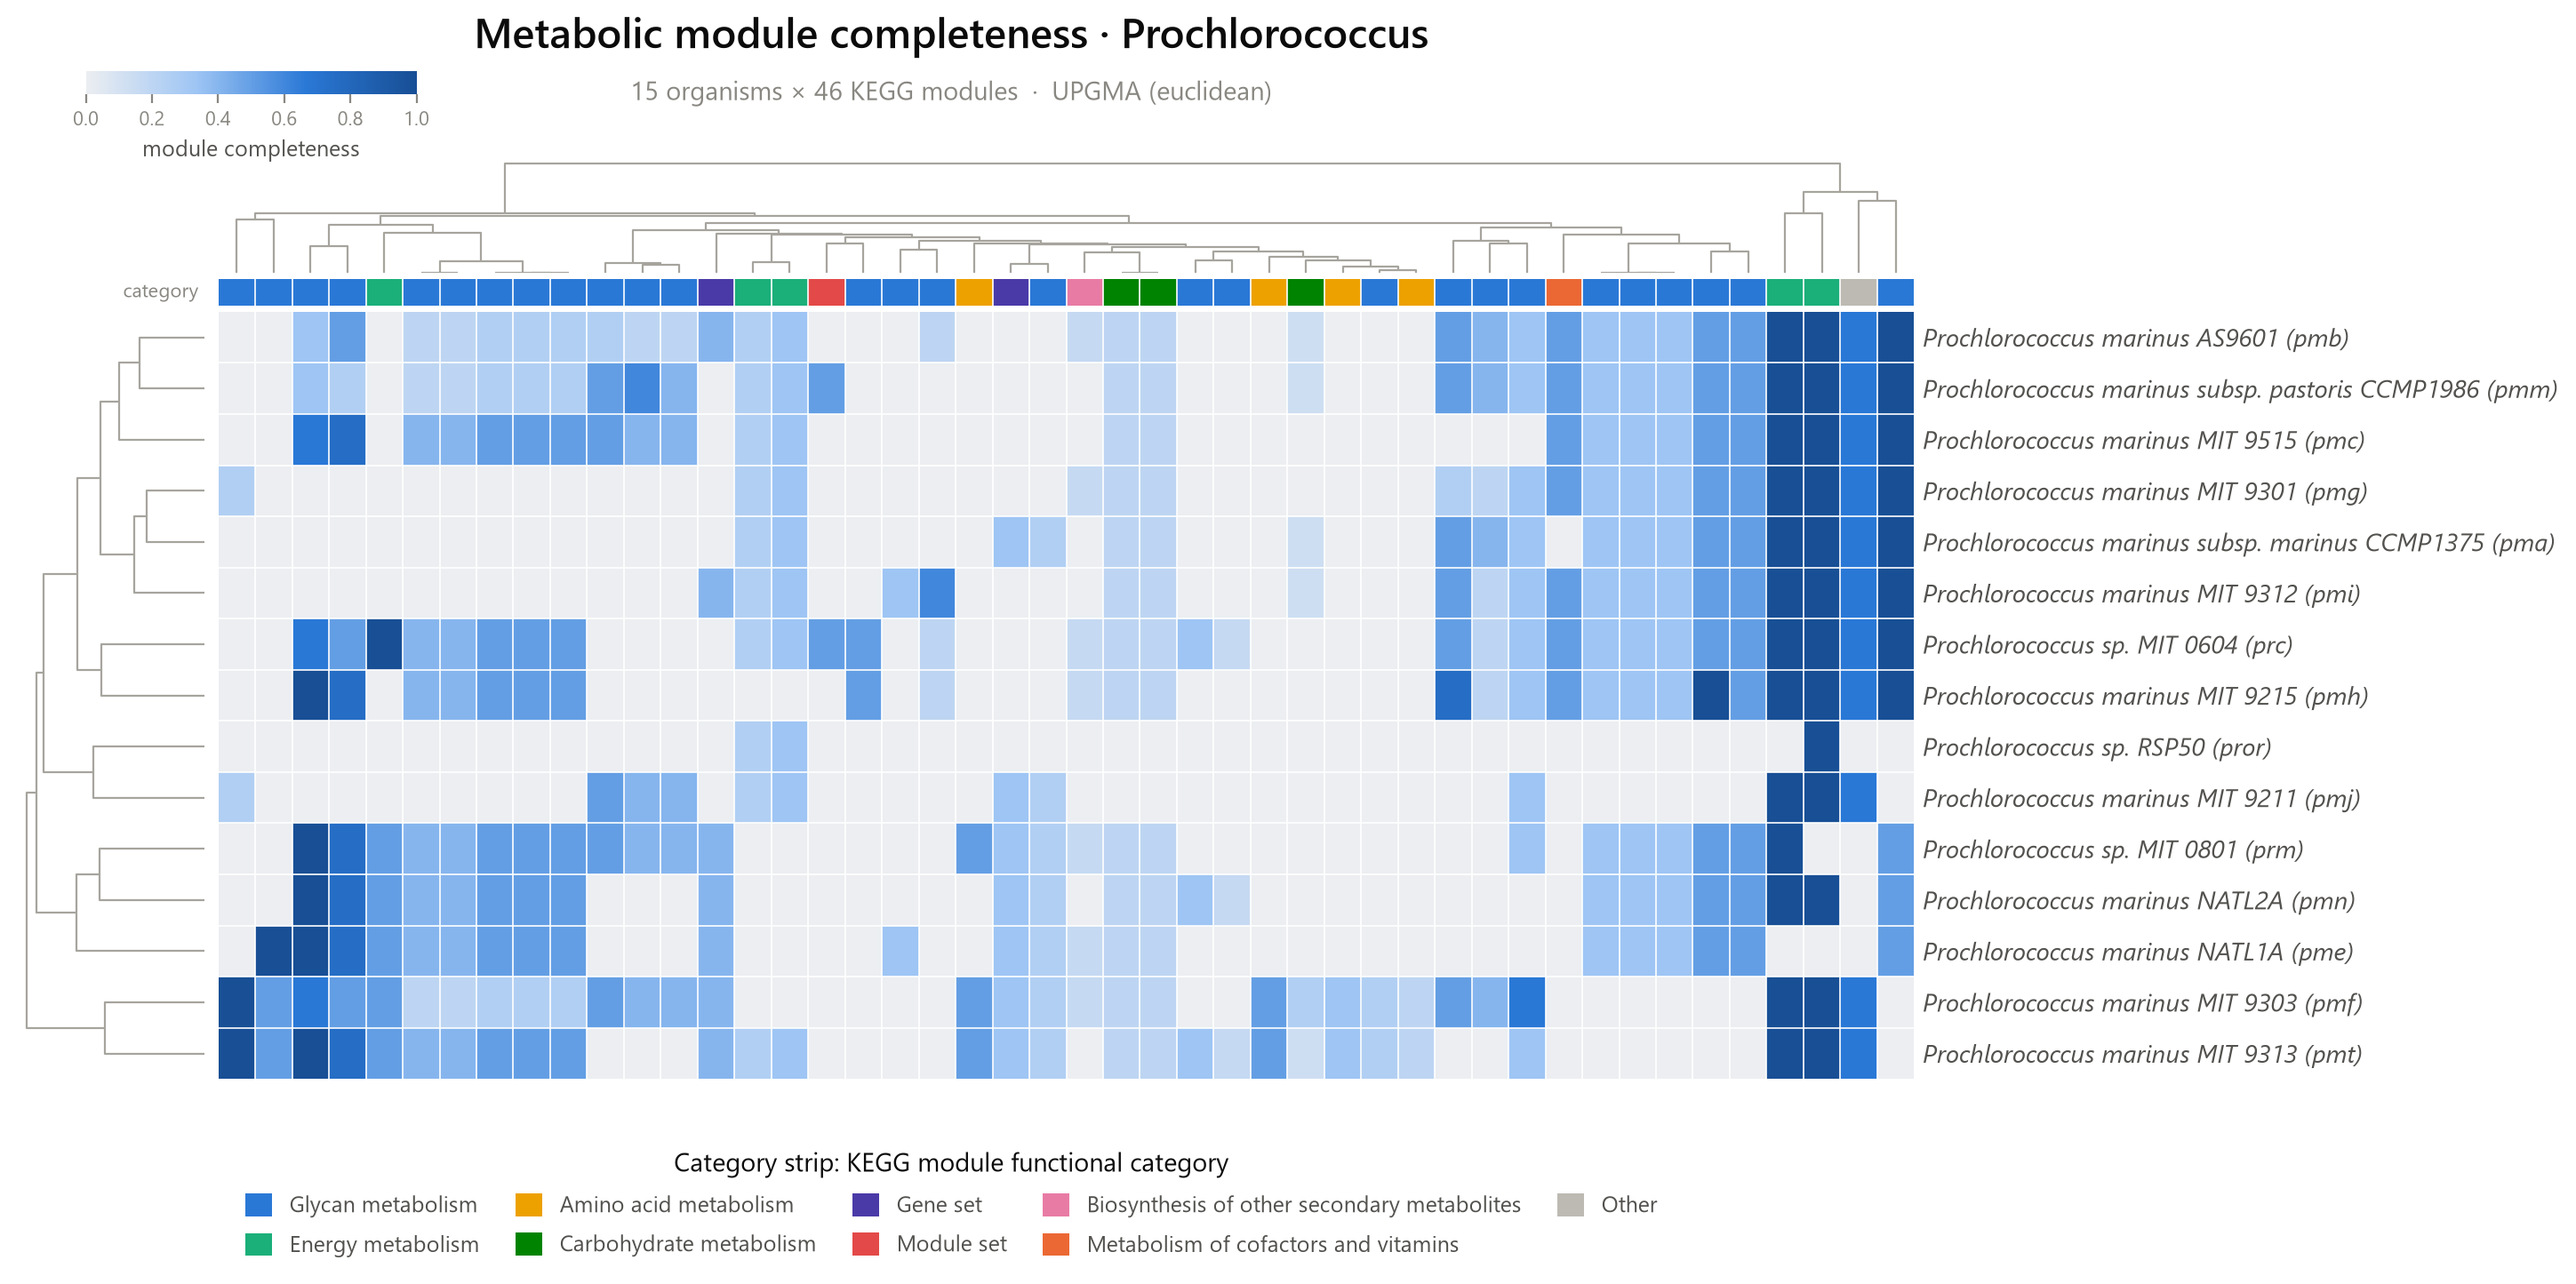
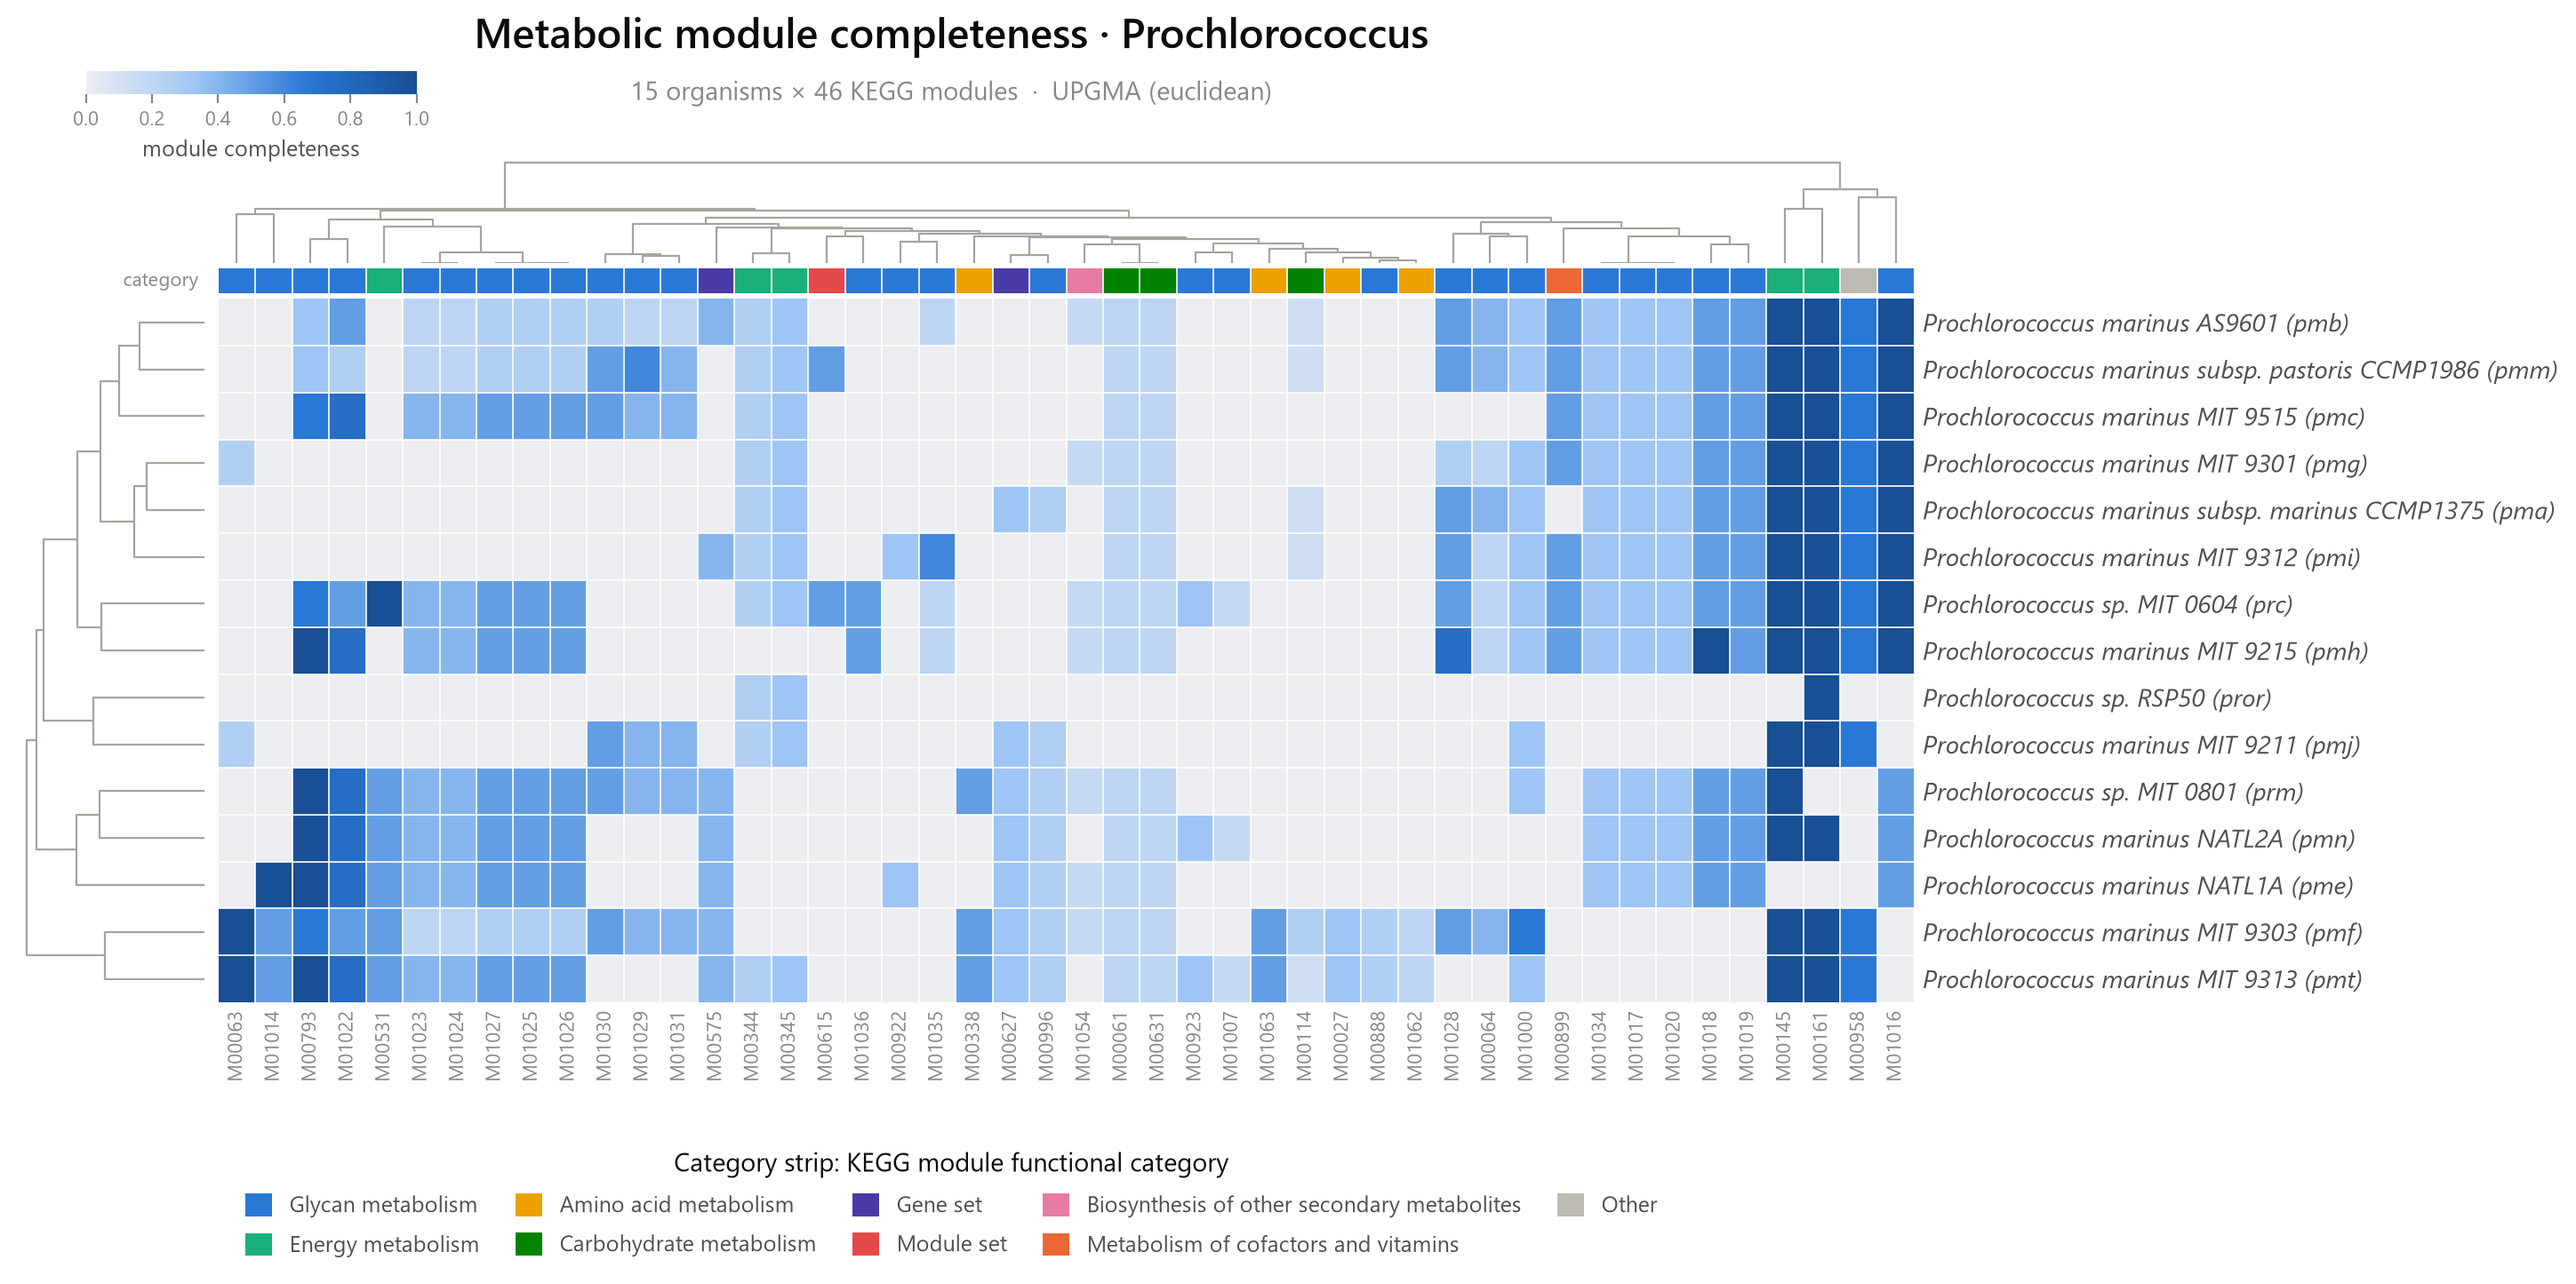
Refine figures: x-axis feature labels, empty-genome QC, name fix
- Show KEGG map/module ids on the x-axis when a matrix has <=50 columns
  (with room reserved below), so clustered columns are directly
  traceable from the figure; the full ordered list stays in
  <name>_features.csv
- Drop organisms with zero annotated features (an all-absent row is
  unannotated, not truly featureless), applied after overview-map
  removal; --keep-empty to override
- Fix pathway-name truncation: rsplit the trailing " - <organism>"
  suffix so names like "Photosynthesis - antenna proteins" survive
- Refresh the example gallery

diff --git a/mpph/cli.py b/mpph/cli.py
@@ -105,10 +105,24 @@ def run(args: argparse.Namespace) -> int:
         df, feature_names = build_presence_matrix(org_pathways)
 
     # --- filter --------------------------------------------------------------
+    # Order matters: drop aggregate overview maps, THEN organisms left with no
+    # real features (e.g. an unannotated genome carrying only overview maps),
+    # and only then apply prevalence/core filtering -- otherwise one all-absent
+    # genome caps every prevalence below 1.0 and neuters --drop-core.
     print("[3/4] Filtering matrix ...", flush=True)
     if mode == "presence" and not args.keep_overview:
         overview = {m for m, c in categories.items() if c == OVERVIEW_CATEGORY}
         df = df.drop(columns=[c for c in df.columns if c in overview])
+    if not args.keep_empty:
+        empty = list(df.index[df.sum(axis=1) == 0])
+        if empty:
+            print(f"      dropping {len(empty)} unannotated organism(s) with no "
+                  f"features: {', '.join(empty)}", flush=True)
+            df = df.drop(index=empty)
+        if df.shape[0] < 1:
+            print("All organisms were empty (no KEGG annotation). Nothing to plot.",
+                  file=sys.stderr)
+            return 3
     df = filter_matrix(df, args.min_prevalence, args.max_prevalence,
                        args.drop_core)
     if df.shape[1] == 0:
@@ -229,6 +243,10 @@ def build_parser() -> argparse.ArgumentParser:
                       help="Drop features present in ALL organisms (uninformative).")
     filt.add_argument("--keep-overview", action="store_true",
                       help="Keep KEGG 'Global and overview maps' (presence mode).")
+    filt.add_argument("--keep-empty", action="store_true",
+                      help="Keep organisms with zero annotated features (by "
+                           "default such genomes are dropped, as an all-absent "
+                           "row is unannotated, not truly featureless).")
 
     out = p.add_argument_group("output")
     out.add_argument("--outdir", default="output", help="Directory for outputs.")

diff --git a/mpph/plot.py b/mpph/plot.py
@@ -122,13 +122,15 @@ def plot_matrix(
     width = min(30.0, max(7.0, n_cols * 0.14 + 4.5))
     height = min(40.0, max(4.5, n_rows * 0.28 + 3.0))
     show_dendro = cluster and row_link is not None
+    show_xlabels = n_cols <= 50
     left_w = 0.11 if show_dendro else 0.012
     top_h = 0.15 if show_dendro else 0.012
 
     fig = plt.figure(figsize=(width, height))
     gs = fig.add_gridspec(
         3, 2, width_ratios=[left_w, 1.0], height_ratios=[top_h, 0.035, 1.0],
-        wspace=0.015, hspace=0.02, left=0.02, right=0.995, top=0.88, bottom=0.16,
+        wspace=0.015, hspace=0.02, left=0.02, right=0.995, top=0.88,
+        bottom=0.22 if show_xlabels else 0.16,
     )
     ax_top = fig.add_subplot(gs[0, 1])
     ax_strip = fig.add_subplot(gs[1, 1])
@@ -147,7 +149,15 @@ def plot_matrix(
     if n_rows <= 90:
         for y in range(10, ymax, 10):
             ax_heat.axhline(y, color="white", linewidth=0.6)
-    ax_heat.set_xticks([])
+    # Feature ids on the x-axis when few enough to stay legible; the full
+    # ordered list is always in <name>_features.csv for traceability.
+    if show_xlabels:
+        ax_heat.set_xticks([10 * j + 5 for j in range(n_cols)])
+        ax_heat.set_xticklabels(cols, rotation=90, color=MUTED,
+                                fontsize=min(8.0, 420 / max(n_cols, 1)))
+        ax_heat.xaxis.set_ticks_position("bottom")
+    else:
+        ax_heat.set_xticks([])
     ax_heat.set_yticks([10 * i + 5 for i in range(n_rows)])
     ax_heat.set_yticklabels(names, fontsize=min(10, 380 / max(n_rows, 1)),
                             color=SECONDARY, style="italic")

diff --git a/mpph/pathways.py b/mpph/pathways.py
@@ -28,7 +28,9 @@ def get_pathways(
         if len(parts) < 2:
             continue
         pathway_number = parts[0][-5:]  # trailing 5 digits are the map id
-        pathway_name = parts[1].split(" - ")[0].strip()
+        # Strip only the trailing " - <organism>" suffix; rsplit keeps names
+        # that themselves contain " - " (e.g. "Photosynthesis - antenna proteins").
+        pathway_name = parts[1].rsplit(" - ", 1)[0].strip()
         pathways[pathway_number] = pathway_name
     return pathways
 
